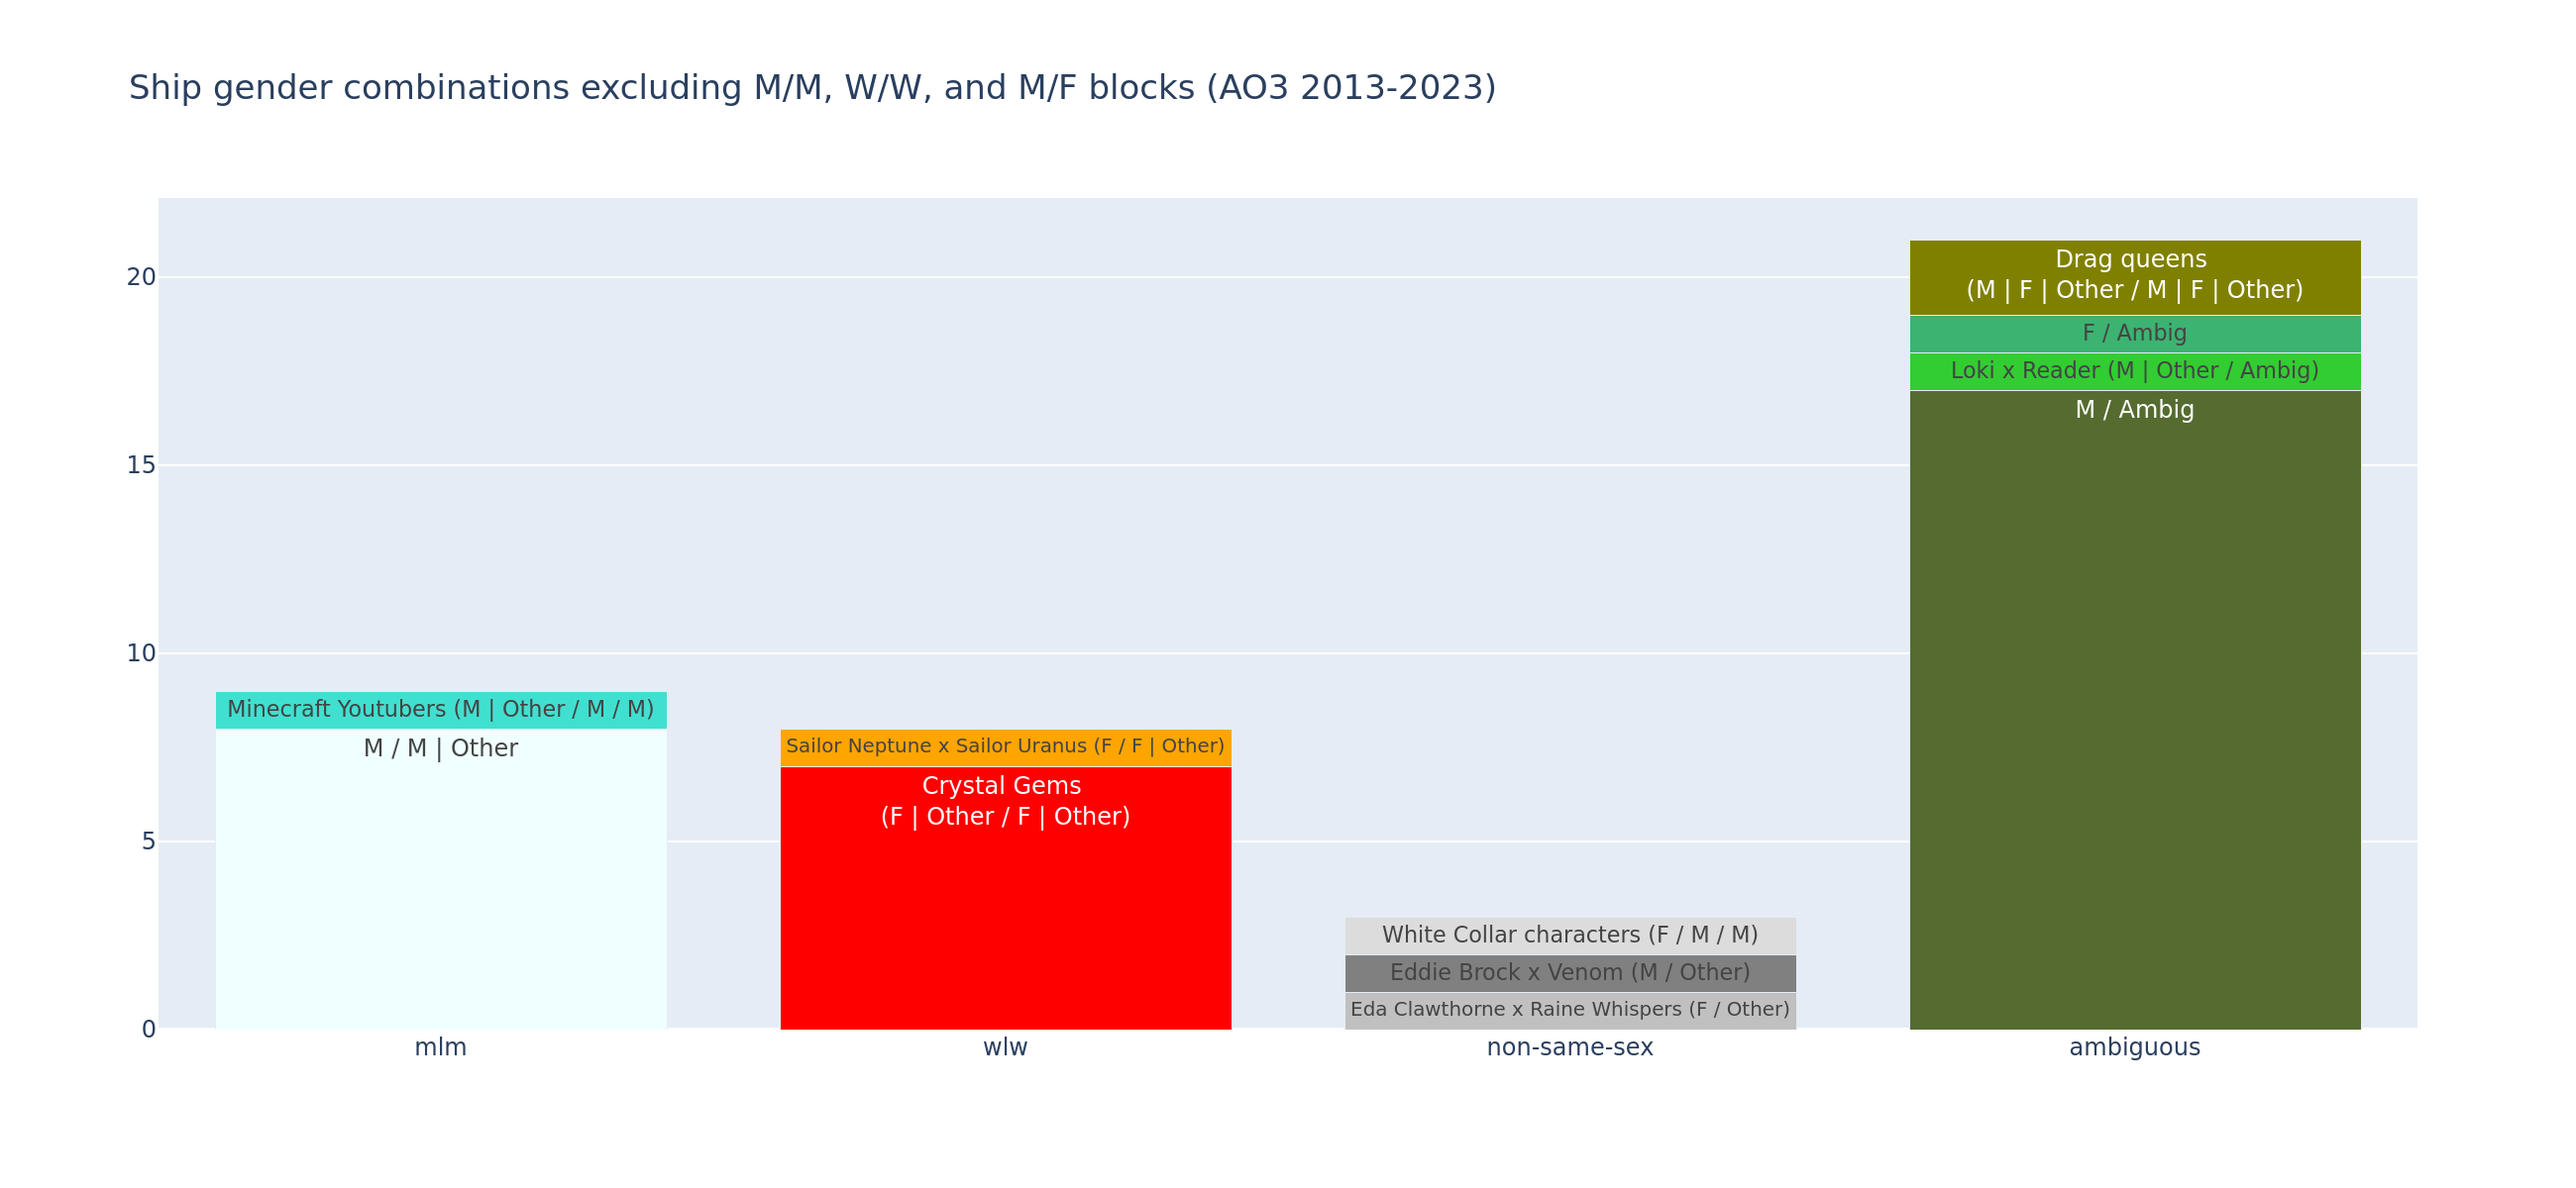
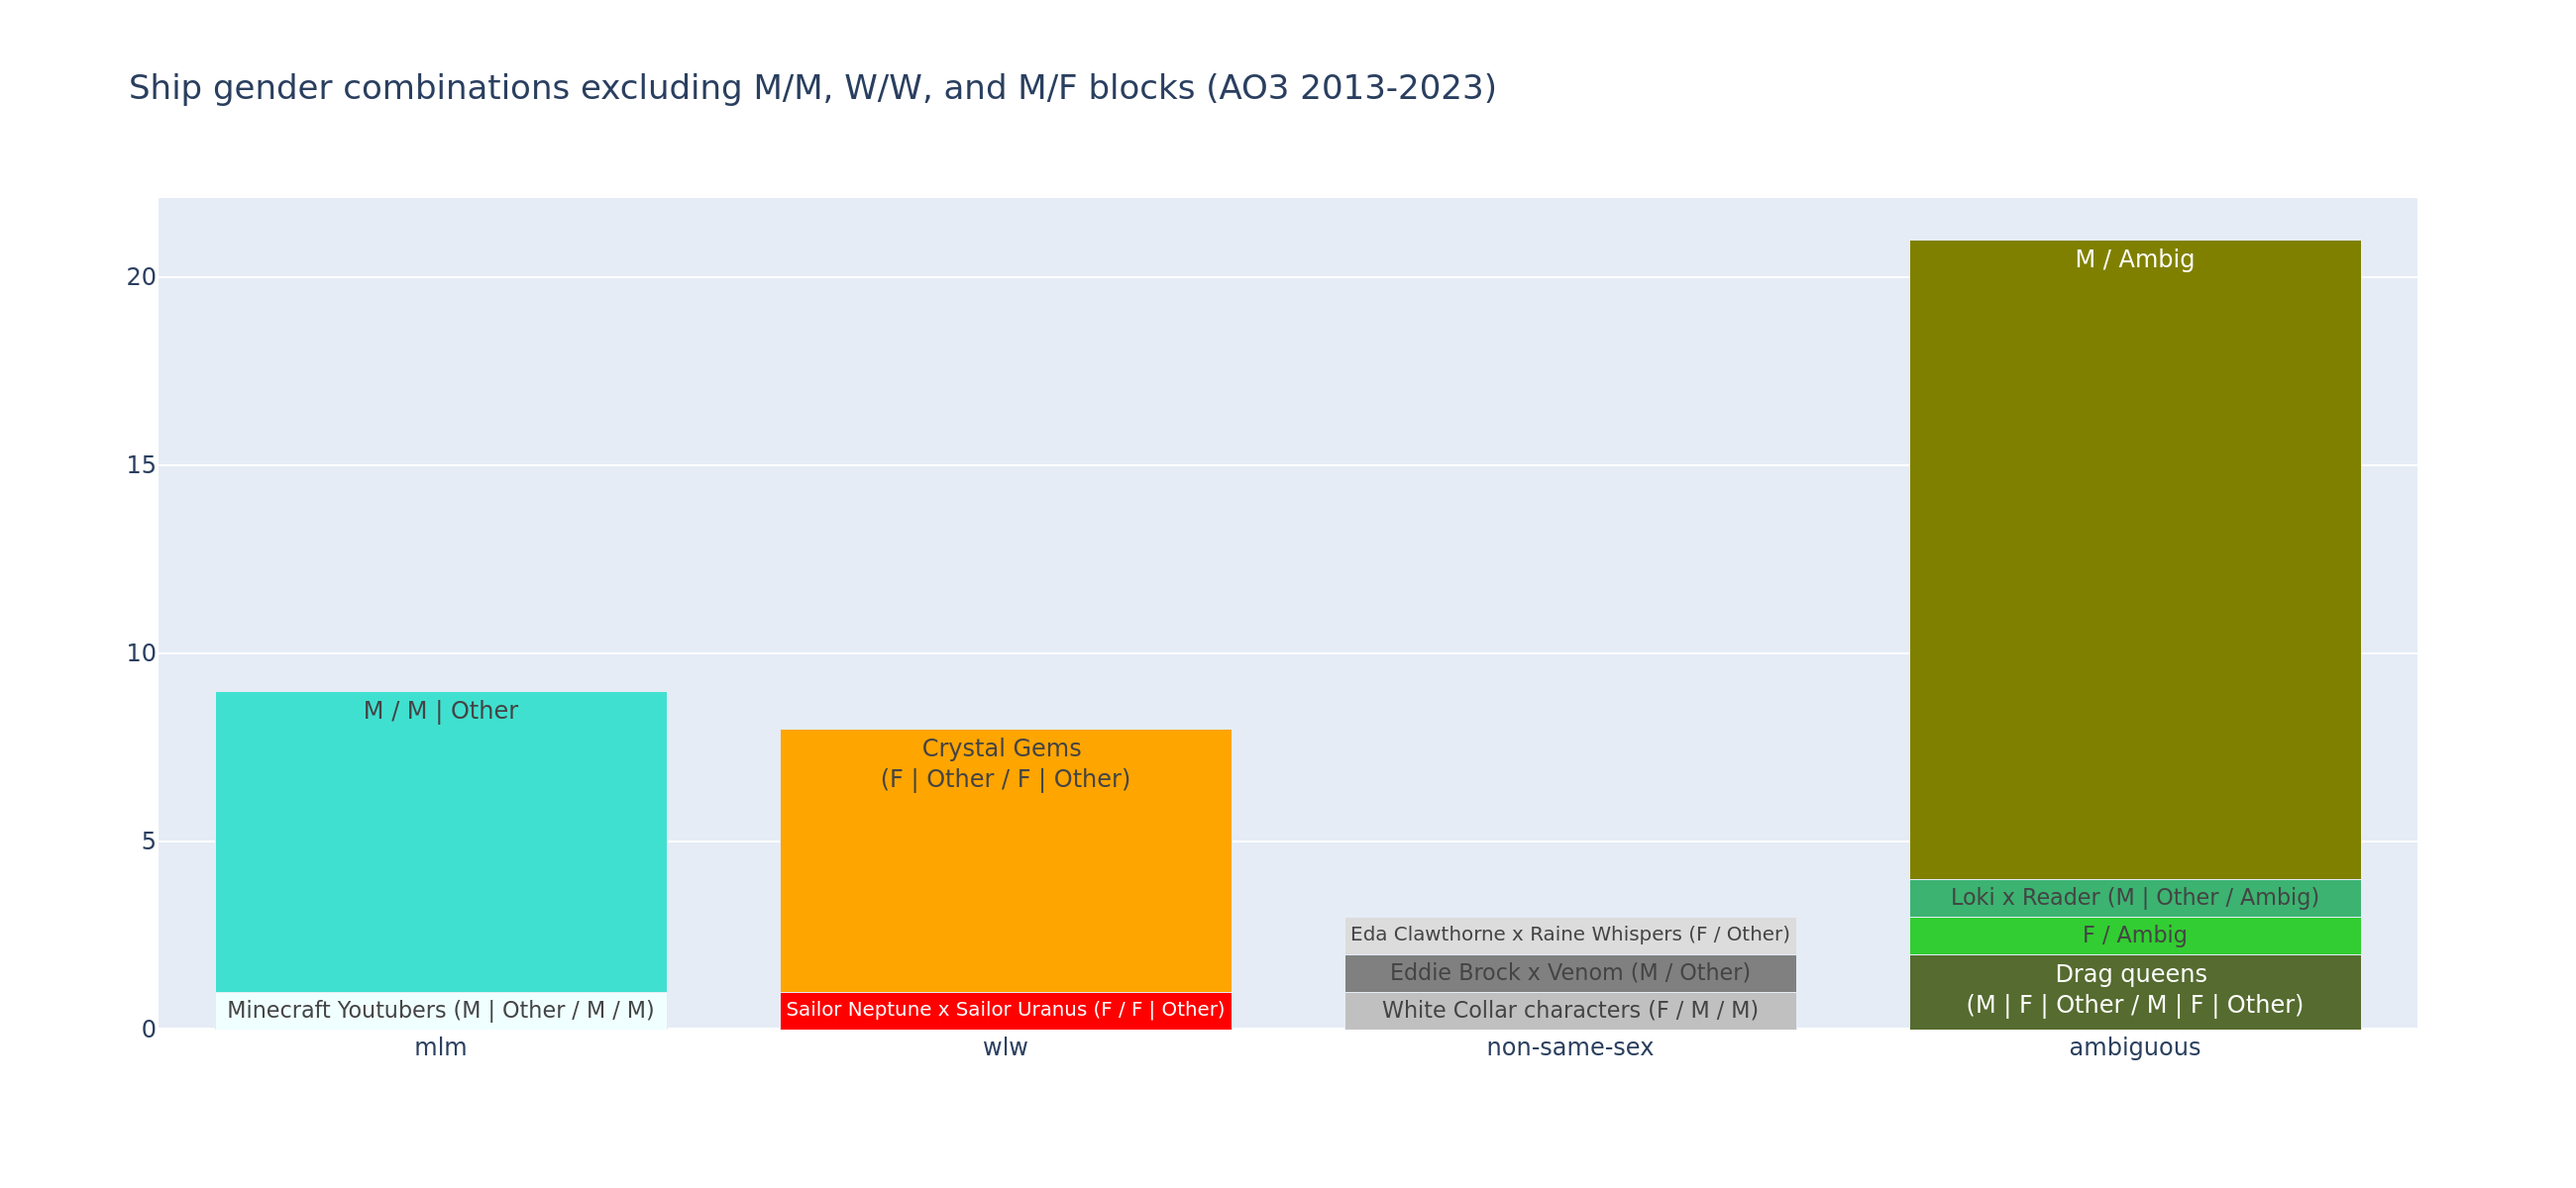
switch colour order on ship combo minorities back

diff --git a/visualisation/vis_ships_file.py b/visualisation/vis_ships_file.py
@@ -143,7 +143,7 @@ def visualise_gender_combo_minorities(total_gender_percentages):
         elif combo_type == "ambiguous":
             colours = ["darkolivegreen", "limegreen", "mediumseagreen", "olive"]
 
-        for combo in combo_dict[combo_type]:
+        for combo in reversed(combo_dict[combo_type]):
             if combo_type == "mlm":
                 colour = colours[mlm_count]
                 mlm_count += 1
